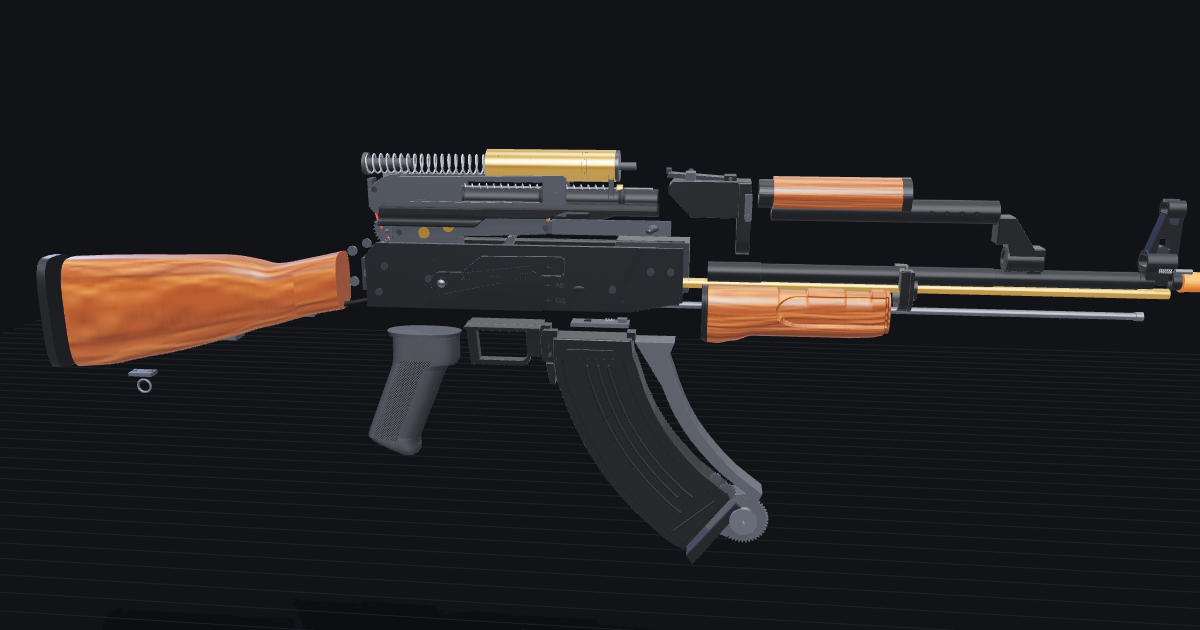
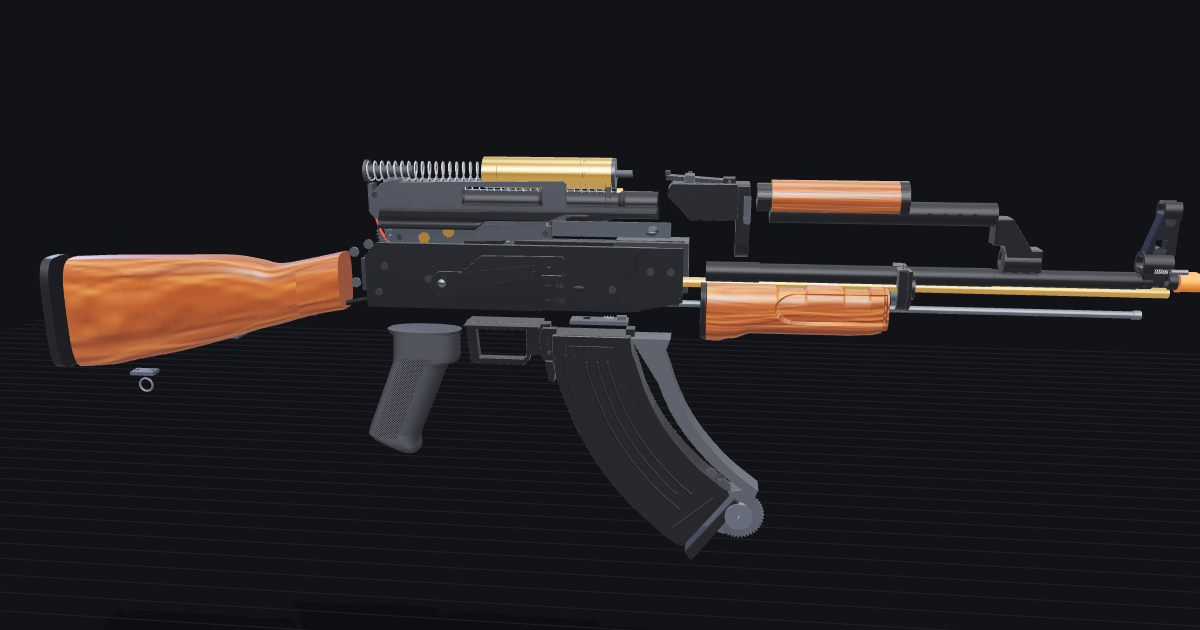
Charging handle: flatter blade flaring to a blunt paddle, per a real AKM close-up

diff --git a/cm048m/index.html b/cm048m/index.html
@@ -761,14 +761,14 @@ part('recoilGuide', 'Lever cock (recoil spring guide) + spring, bushing', 'rcv',
    [cyl(mm(4), mm(5), 'x', X(558), Y(70), 0, 16), 'brass']]);
 // AKM charging handle, plan shape from the Forbus AKM carrier drawing and the Apex top view: 10mm wide at the root,
 // sticks out about 27.5mm from the carrier side, straight rear face, front face scalloped (4.4mm deep at 17.4mm out),
-// rounded tip about 5mm wide. A flat blade about 7mm thick that rises slightly toward the tip (Atlantic end-on shots).
+// flaring to a blunt paddle end (user photo of a real AKM). A flat blade about 7mm thick that rises slightly toward the tip (Atlantic end-on shots).
 function chargingHandle(x0, y0) {
   const N = 64, M = 24, pos = [], idx = [];
   for (let i = 0; i <= N; i++) {
     const t = i / N, z = RZ - mm(3.5) + mm(27.5) * t, y = y0 + mm(1.8) * t * t;
-    const front = 5 - 11 * t + 6.6 * t * t, rear = -5 + 0.8 * t * t;            // mm along x, + toward the muzzle
-    const end = t > 0.88 ? Math.sqrt(Math.max(0, 1 - ((t - 0.88) / 0.12) ** 2)) : 1;      // rounded tip
-    const cx = x0 + mm((front + rear) / 2), a = mm(Math.max((front - rear) / 2, 3)) * Math.max(end, 0.04), b = mm(2.9 - 0.6 * t) * Math.max(end, 0.04);
+    const front = 5 - 11 * t + 10.5 * t * t, rear = -5 + 0.5 * t * t;            // mm along x, + toward the muzzle
+    const end = t > 0.95 ? Math.sqrt(Math.max(0, 1 - ((t - 0.95) / 0.05) ** 2)) : 1;   // blunt end      // rounded tip
+    const cx = x0 + mm((front + rear) / 2), a = mm(Math.max((front - rear) / 2, 3)) * Math.max(end, 0.04), b = mm(t < 0.35 ? 4 - 6 * t : 1.9) * Math.max(end, 0.04);
     for (let j = 0; j < M; j++) { const u = j / M * Math.PI * 2; pos.push(cx + a * Math.cos(u), y + b * Math.sin(u), z); }
   }
   for (let i = 0; i < N; i++) for (let j = 0; j < M; j++) {
@@ -778,7 +778,7 @@ function chargingHandle(x0, y0) {
   g.setIndex(idx); g.computeVertexNormals(); return g;
 }
 part('cockLever', 'Cocking lever (charging handle)', 'rcv', ['59'], [0, 120, 60],
-  'Right-side cocking lever (59): a flat blade 10mm wide at the root, about 27.5mm long, scalloped on the front face and rounded at the tip (Forbus AKM carrier drawing). On the AEG it is a dummy that slides back against the recoil spring and can be locked back to reach the hop-up adjuster through the ejection port.',
+  'Right-side cocking lever (59): a flat blade 10mm wide at the root, about 27.5mm long, scalloped on the front face, flaring to a blunt flat paddle at the tip (Forbus AKM carrier drawing, real AKM photo). On the AEG it is a dummy that slides back against the recoil spring and can be locked back to reach the hop-up adjuster through the ejection port.',
   [[bx(X(622), X(505), Y(88), Y(73), RZ - mm(3.5), RZ - mm(1.8)), 'steel'],
    [chargingHandle(X(522), Y(80.5)), 'dark']]);
 // AKM safety/selector lever, traced from the CYMA right-side close-ups (Taiwangun, RedWolf) and real AKM photos.
